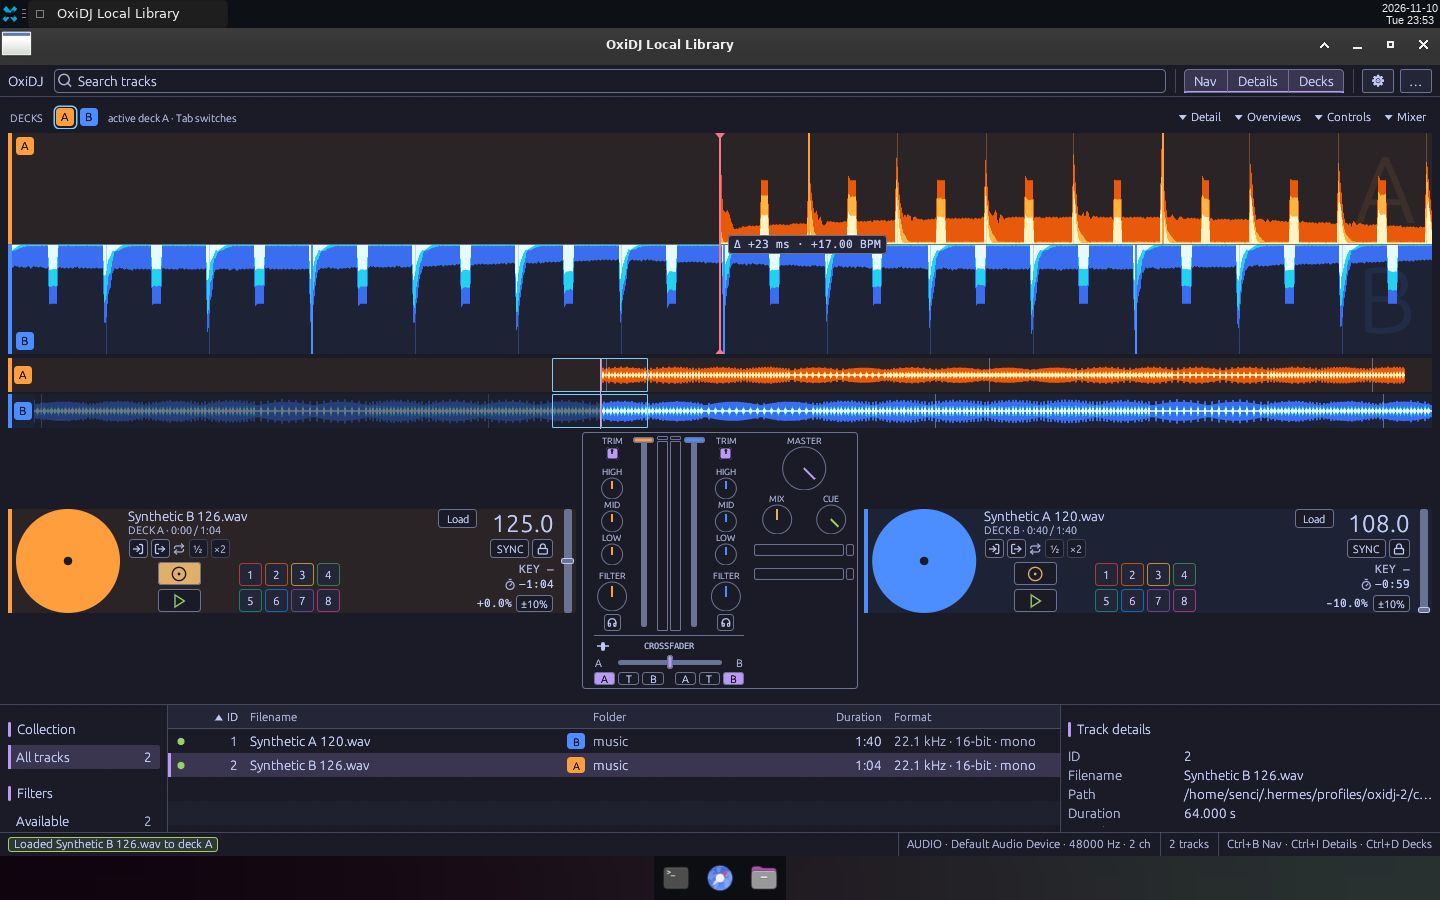
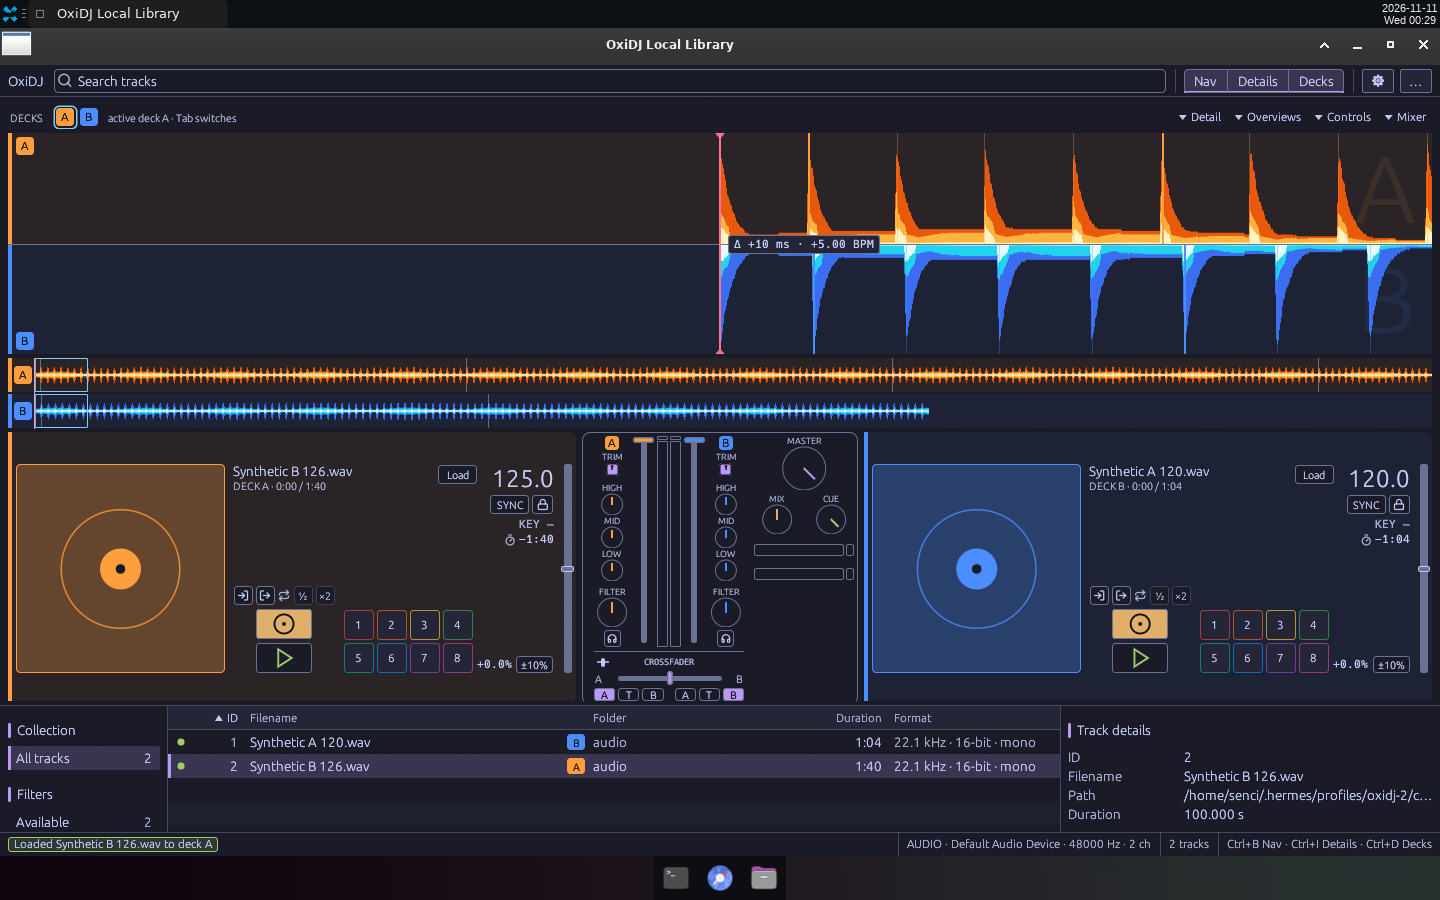
docs: retake v19 deck row capture after band fill fix
Gate: docs only; cargo xtask ci exit 0 on 30e2f4a (code unchanged since)

diff --git a/docs/milestones/v19-deck-layout-v2/README.md b/docs/milestones/v19-deck-layout-v2/README.md
@@ -68,6 +68,6 @@ search, settings and panel buttons. No emoji in the interface.
 
 - Mixer v2: [`app-mixer-v2.png`](app-mixer-v2.png) is a real Bot Screen capture of the application (synthetic scratch catalog, decks empty, detail waveform hidden to show the mixer; compact density at 1440 px wide). Input selectors are a painted placeholder; the master/cue controls sit in a column beside the mixer block.
 - Layout B (default arrangement): [`app-layout-b.png`](app-layout-b.png) is a real Bot Screen capture (synthetic scratch catalog, both decks loaded, 1440x791 window, OxiDJ deck theme, mirrored deck B, A/B labels and input selectors on, mixer shown). Detail waveform and the two overviews sit on top (one static needle x across both overviews); deck A, mixer and deck B share one row below. New Settings (Deck view tab, all persisted): deck theme (Club standard / OxiDJ: panel corner radius), track metadata, crossfader, mirror deck B, alongside mixer density, A/B labels, input selectors and knobs outside. The deck area scrolls so the library table keeps at least 120 px. Arrangements A, C, D remain deferred; native display and accessibility qualification NOT DEMONSTRATED.
-- Shared playback-time overviews: [`app-overviews-shared-scale.png`](app-overviews-shared-scale.png) is a real Bot Screen capture (synthetic scratch catalog: a 64 s track on deck A at +0 %, a 100 s track on deck B parked at 0:40 and pitched -10 %, full-screen composite). Both overviews use one pixels-per-playback-second scale (track seconds / live rate) and one needle x; deck A ends earlier, deck B (remaining 60 s / 0.9 = 66.7 playback s) fills the strip, and a rate change re-stretches that deck at once. Seek inverts the mapping and freezes it at the press so a drag does not chase the moving needle. Pure mapping in `overview_scale.rs`; independent-oracle egui tests in `deck_tests.rs`. Native display and accessibility qualification NOT DEMONSTRATED.
+- Shared playback-time overviews: [`app-overviews-shared-scale.png`](app-overviews-shared-scale.png) is a real Bot Screen capture (synthetic scratch catalog: a 64 s track on deck A at +0 %, a 100 s track on deck B parked at 0:40 and pitched -10 %, full-screen composite). Both overviews use one pixels-per-playback-second scale (track seconds / live rate) and one needle x; deck A ends earlier, deck B (remaining 60 s / 0.9 = 66.7 playback s) fills the strip, and a rate change re-stretches that deck at once. Seek inverts the mapping and freezes it at the press so a drag does not chase the moving needle. Pure mapping in `overview_scale.rs`; independent-oracle egui tests in `deck_tests.rs`. Native display and accessibility qualification NOT DEMONSTRATED. The capture was retaken after the deck-row fix: the tint and rail fill the whole row, the content band grows to the row (cover is a square, no-artwork placeholder is a rounded square with a record glyph, pads and CUE/PLAY scale up to 1.3x), 1440x900 Layout B; compare with `layout-b.png` (cover narrower than the mockup because the controls column keeps its width).
 
 - Arrangements A, C, D: selectable in Settings → Deck view → Deck arrangement (persisted, B default). Real Bot Screen captures (synthetic scratch catalog, both decks loaded, 1440x791 window, OxiDJ deck theme, mirrored deck B): [`app-layout-a.png`](app-layout-a.png) (decks + centre mixer on top, waves below), [`app-layout-c.png`](app-layout-c.png) (waves on top, decks with the mixer docked right), [`app-layout-d.png`](app-layout-d.png) (mixer beside the waves on the right as in `layout-d.png`, decks in a row below). One deck panel / mixer / waveform implementation is reused; the deck area scrolls so the library keeps 120 px. Native display and accessibility qualification NOT DEMONSTRATED.
